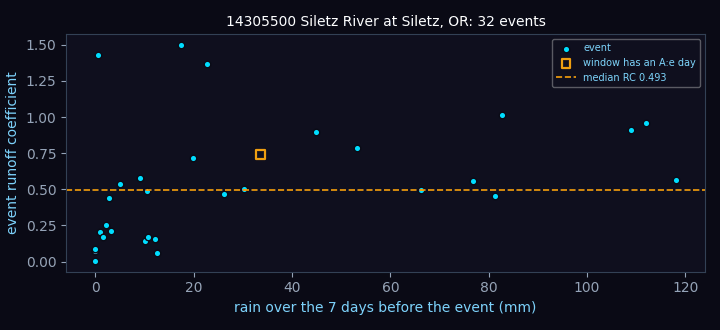
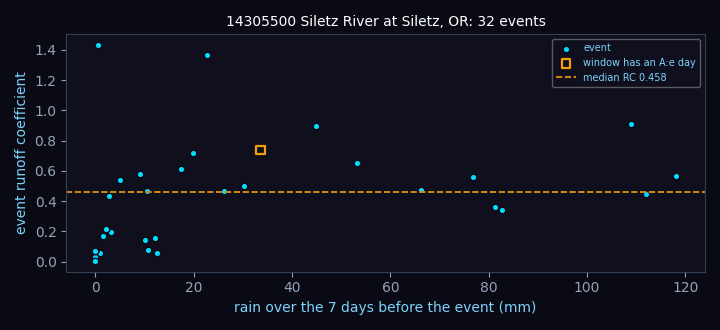
fix(runoff-generation): event rain covers the same window as the quickflow
Event P is now all precipitation from the start day to the window end, so RC has matching
numerator and denominator days. The "RC can exceed 1 by construction" text is replaced by a
computed count of events still above 1 with a neutral sentence. Static outputs, alt text,
CORE, cell builder, test detector and tests updated.

diff --git a/modules/runoff-generation/module.html b/modules/runoff-generation/module.html
@@ -517,7 +517,7 @@ mean R_SE              : 7.90 mm   (26.3% of the rain)</pre><div class="aihydro-
     (Thornton et al., 1997 <span style="color:var(--muted);">[11]</span>) for water years 1996–2000 (1827 days). For each rain event we ask what share of the rain left the basin as quickflow, the <strong>event runoff coefficient</strong> (RC;
     Merz et al., 2006 <span style="color:var(--muted);">[6]</span>; Blume et al., 2007 <span style="color:var(--muted);">[7]</span>).
   </p>
-  <div class="formula">event: a day with P ≥ 10 mm after 2 days with P &lt; 1 mm (needs 7 earlier days of record) &nbsp;·&nbsp; event rain = consecutive days with P ≥ 1 mm<br>
+  <div class="formula">event: a day with P ≥ 10 mm after 2 days with P &lt; 1 mm (needs 7 earlier days of record) &nbsp;·&nbsp; event rain = all rain from the start day to the window end<br>
     window: from the start day for up to 10 days, or until the next event &nbsp;·&nbsp; quickflow = Q − baseflow (Lyne–Hollick, α = 0.925, 3 passes) summed over the window<br>
     <b>RC = quickflow depth ÷ event rain depth</b> &nbsp;·&nbsp; antecedent = rain over the 7 days before the start</div>
   <p style="font-size:14px;">These thresholds are <strong>teaching choices</strong>, not standards; the table below shows how the median RC moves when the start threshold changes.
@@ -569,14 +569,14 @@ Rain file      : basin_dataset_public_v1p2/basin_mean_forcing/daymet/17/14305500
 Period         : 1995-10-01 + 1827 days (water years 1996-2000); 2 days flagged A:e
 Totals         : P 14791 mm, Q 15741 mm, Q/P = 1.064  (CAMELS runoff_ratio 0.990 is a 1989-2009 value: context, not a 1:1 check)
 Events         : N = 32 (day with P &gt;= 10 mm after 2 days &lt; 1 mm; window &lt;= 10 days or to the next event)
-Median RC      : 0.493;  events with RC &gt; 1: 4;  windows with an A:e day: 1
-Antecedent 7 d : median 12.35 mm; wetter-week events (n=16) median RC 0.727, drier-week (n=16) 0.188
-Rank corr.     : rho(antecedent rain, RC) = 0.61
-Start &gt;=  5.0 mm: N =  70, median RC 0.447
-Start &gt;= 10.0 mm: N =  32, median RC 0.493
-Start &gt;= 20.0 mm: N =   3, median RC 0.488
+Median RC      : 0.458;  events with RC &gt; 1: 2;  windows with an A:e day: 1
+Antecedent 7 d : median 12.35 mm; wetter-week events (n=16) median RC 0.563, drier-week (n=16) 0.166
+Rank corr.     : rho(antecedent rain, RC) = 0.54
+Start &gt;=  5.0 mm: N =  70, median RC 0.353
+Start &gt;= 10.0 mm: N =  32, median RC 0.458
+Start &gt;= 20.0 mm: N =   3, median RC 0.469
 Largest day    : 118.19 mm on 1998-11-25 = 4.92 mm/h over 24 h; CAMELS soil_conductivity 1.178 cm/hr = 11.78 mm/h (below)
[2 lines of base64/hex data omitted]
   </div>
 </div>
 
@@ -1257,7 +1257,7 @@ function baseflowIndex(Q, base) {
       var end = Math.min(d0 + EV.WIN - 1, n - 1);
       if (s + 1 < starts.length) end = Math.min(end, starts[s + 1] - 1);
       var pe = 0, j = d0, qf = 0, ant = 0, t;
-      while (j <= end && Ph[j] >= EV.DRY) { pe += Ph[j]; j++; }
+      for (j = d0; j <= end; j++) pe += Ph[j];                  // all rain over the window the quickflow is summed over
       for (t = d0; t <= end; t++) qf += Q[t] - B[t];
       for (t = d0 - EV.ANT; t < d0; t++) ant += Ph[t];
       out.push({ d: d0, end: end, P: pe / 100, ant: ant / 100, qf: qf, rc: qf / (pe / 100) });
@@ -1578,7 +1578,7 @@ function baseflowIndex(Q, base) {
     var word = describeAnt(s), better = GIDS.filter(function (q) { return STATS[q].wetMedian > STATS[q].dryMedian; }).length;
     $('evNarr').textContent = 'Split at the median antecedent rain (' + f1(s.medAnt) + ' mm): the ' + s.wetN + ' events after a wetter week have a median RC of ' + f3(s.wetMedian) +
       ', the ' + s.dryN + ' after a drier week ' + f3(s.dryMedian) + ', so the wetter-week events have a ' + word + ' median. The rank correlation between antecedent rain and RC is ' + f2(s.rho) +
-      '. Across the three basins the wetter-week median is the higher one in ' + better + ' of 3. This describes these events; it is not a test of cause, because antecedent rain and event size can be related and this table does not separate them. RC can exceed 1 by construction: rain that falls later in the window, after a dry day, adds quickflow but is not counted as event rain.';
+      '. Across the three basins the wetter-week median is the higher one in ' + better + ' of 3. This describes these events; it is not a test of cause, because antecedent rain and event size can be related and this table does not separate them.' + (s.nAbove1 ? ' RC is still above 1 for ' + s.nAbove1 + ' of the ' + s.n + ' events here; numerator and denominator now cover the same days, so the cause lies elsewhere, for example snowmelt, rain from before the event, or the limits of the baseflow filter, and daily data cannot say which.' : ' No event here has RC above 1.');
     var below = s.maxRate < s.ksatMmH;
     $('evKsat').textContent = 'The largest daily rain here is ' + f1(s.maxP) + ' mm on ' + s.maxPday + ', which is ' + f2(s.maxRate) + ' mm/h if spread evenly over 24 h; the CAMELS soil conductivity is ' +
       b.soil_conductivity_cm_h.toFixed(3) + ' cm/hr = ' + f2(s.ksatMmH) + ' mm/h. The 24-hour mean is ' + (below ? 'below' : 'above') + ' that conductivity, but a daily total cannot show how much of the rain fell in a short burst, so this comparison cannot tell you whether infiltration excess happened.';
@@ -1754,9 +1754,7 @@ function baseflowIndex(Q, base) {
       '    for s, d in enumerate(starts):',
       '        end = min(d + WIN - 1, n - 1)',
       '        if s + 1 < len(starts): end = min(end, starts[s + 1] - 1)',
-      '        j, pe = d, 0',
-      '        while j <= end and P_H[j] >= DRY_H:',
-      '            pe += int(P_H[j]); j += 1',
+      '        pe = int(P_H[d:end + 1].sum())        # all rain over the window the quickflow is summed over',
       '        qf = float(sum(Q_MM[t] - BASE_MM[t] for t in range(d, end + 1)))',
       '        ant = int(P_H[d - ANT:d].sum())',
       '        out.append((d, end, pe / 100.0, ant / 100.0, qf, qf / (pe / 100.0)))',

diff --git a/tests/test_runoff_generation.py b/tests/test_runoff_generation.py
@@ -285,10 +285,7 @@ def independent_events(b, thr_h=1000):
         if idx + 1 < len(starts):
             last = min(last, starts[idx + 1] - 1)
         last = min(last, n - 1)
-        run = 0
-        while d + run <= last and P[d + run] >= 100:
-            run += 1
-        pe = P[d:d + run].sum() / 100.0
+        pe = P[d:last + 1].sum() / 100.0
         qf = float((qmm[d:last + 1] - base[d:last + 1]).sum())
         ev.append(dict(d=d, end=last, P=pe, ant=P[d - 7:d].sum() / 100.0, qf=qf, rc=qf / pe))
     return ev
@@ -378,7 +375,7 @@ def test_default_event_cell_output_is_the_siletz_numbers_in_the_page():
     txt = (MODULES / MOD / "static" / "event-runoff-ratios.txt").read_text()
     s = js_events("14305500")
     assert f"N = {s['n']} " in txt and f"{s['medianRC']:.3f}" in txt
-    assert "Q/P = 1.064" in txt                                             # the Daymet/gauge balance is shown, not hidden
+    assert "Q/P = 1.064" in txt and f"events with RC > 1: {s['nAbove1']}" in txt                                             # the Daymet/gauge balance is shown, not hidden
 
 
 def test_cells_declare_their_status_and_use_only_numpy_and_matplotlib():
@@ -461,7 +458,7 @@ def test_numbers_in_toggle_label_and_figure_alt_text_are_the_computed_ones():
     rcs = [e["rc"] for e in s["events"]]
     a = alt["event-runoff-ratios"]
     assert f"{s['n']} rain events" in a and f"{s['medianRC']:.3f}" in a
-    assert min(rcs) >= 0 and round(max(rcs), 1) == 1.5 and "about 0 to about 1.5" in a
+    assert min(rcs) >= 0 and round(max(rcs), 1) == 1.4 and "about 0 to about 1.4" in a
     assert s["nEst"] == 1 and "the one event whose window includes an estimated-flow day" in a
 
 
@@ -534,3 +531,11 @@ def test_extractor_reproduces_the_bundled_data_byte_for_byte():
         assert r.returncode == 0, r.stderr
         for name in ("runoff-events.json", "PROVENANCE.json"):
             assert (Path(td) / "modules" / MOD / "data" / name).read_bytes() == (D / name).read_bytes(), name
+
+
+def test_event_rain_covers_the_same_window_as_the_quickflow_and_no_by_construction_wording():
+    for g in GIDS:
+        for e in js_events(g)["events"]:
+            P = np.array(BLOB["basins"][g]["prcp_hundredths_mm"])
+            assert e["P"] == pytest.approx(P[e["d"]:e["end"] + 1].sum() / 100.0, abs=1e-9)
+    assert "by construction" not in T and "all rain from the start day to the window end" in T

diff --git a/CHANGELOG.md b/CHANGELOG.md
@@ -12,7 +12,7 @@ All notable changes to the learning modules. Versions are per module (`manifest.
 
 ### runoff-generation new → 0.1.0
 - New lesson, "Runoff Generation: Infiltration Excess and Saturation Excess" (course order 4, about 40 min, prerequisite: the precipitation lesson). Seven sections plus references and provenance: the two mechanisms; a SYNTHETIC Green–Ampt column (ponding time from Mein & Larson, cumulative infiltration from the implicit Green–Ampt equation, rain-intensity and duration sliders); a finite storage deficit with a mass-balance readout P = F + R_IE + R_SE; a keyboard-operable mechanism map over intensity × deficit computed by the same model (text labels plus fill and hatching in three classes); a SYNTHETIC 20-column hillslope whose saturated area grows with storm depth (wetter-start toggle); real events; and a seven-item checkpoint.
-- Real part (§6): CAMELS-US v1.2 daily USGS discharge and Daymet basin-mean rain for water years 1996–2000, three basins (Siletz, Leaf, Sabino). Events are days with at least 10 mm after two days under 1 mm, a window of up to 10 days, quickflow from the shared Lyne–Hollick filter (α = 0.925), event runoff coefficient and 7-day antecedent rain; the thresholds are stated as teaching choices and the median RC is shown for 5, 10 and 20 mm. The antecedent-wetness wording is generated from the computed medians and rank correlation, not typed. Fish River is left out with its CAMELS `frac_snow` as the stated reason. The largest daily rain (as a 24-hour mean) is set beside the CAMELS `soil_conductivity` (cm/hr) and the lesson says only what that computation shows. CAMELS `runoff_ratio` is shown as context for a different period, not as a one-to-one check.
+- Real part (§6): CAMELS-US v1.2 daily USGS discharge and Daymet basin-mean rain for water years 1996–2000, three basins (Siletz, Leaf, Sabino). Events are days with at least 10 mm after two days under 1 mm, a window of up to 10 days, event rain and quickflow both summed over that same window, quickflow from the shared Lyne–Hollick filter (α = 0.925), event runoff coefficient and 7-day antecedent rain; the thresholds are stated as teaching choices and the median RC is shown for 5, 10 and 20 mm. The antecedent-wetness wording is generated from the computed medians and rank correlation, not typed. Fish River is left out with its CAMELS `frac_snow` as the stated reason. The largest daily rain (as a 24-hour mean) is set beside the CAMELS `soil_conductivity` (cm/hr) and the lesson says only what that computation shows. CAMELS `runoff_ratio` is shown as context for a different period, not as a one-to-one check.
 - Two executable cells with pre-rendered output: `column-hillslope` (the two SYNTHETIC models in one cell, kept in one to stay under the 200 KB page budget) and `event-runoff-ratios` (REAL; Lyne–Hollick inlined from `shared/lyne_hollick.py`). The JS models and the cells agree to 1e-6 and are recomputed independently in `tests/test_runoff_generation.py` (including explicit time stepping of the column, an independent event detector and the quiz answers).
 - Data: `data/runoff-events.json` (blob, about 40 KB) and `data/PROVENANCE.json` (source members and sha256), written by the `runoff-generation` extractor in `scripts/extract_camels.py`.
 - Citations (all pass the gate, see CITATIONS.verified.md): Horton 1933, Dunne & Black 1970, Green & Ampt 1911, Mein & Larson 1973, Merz et al. 2006, Blume et al. 2007, Cosby et al. 1984, Thornton et al. 1997. The DOI first planned for Merz et al. (10.1016/j.jhydrol.2006.03.006) resolves to a different paper and was replaced by 10.1016/j.jhydrol.2006.06.008.
